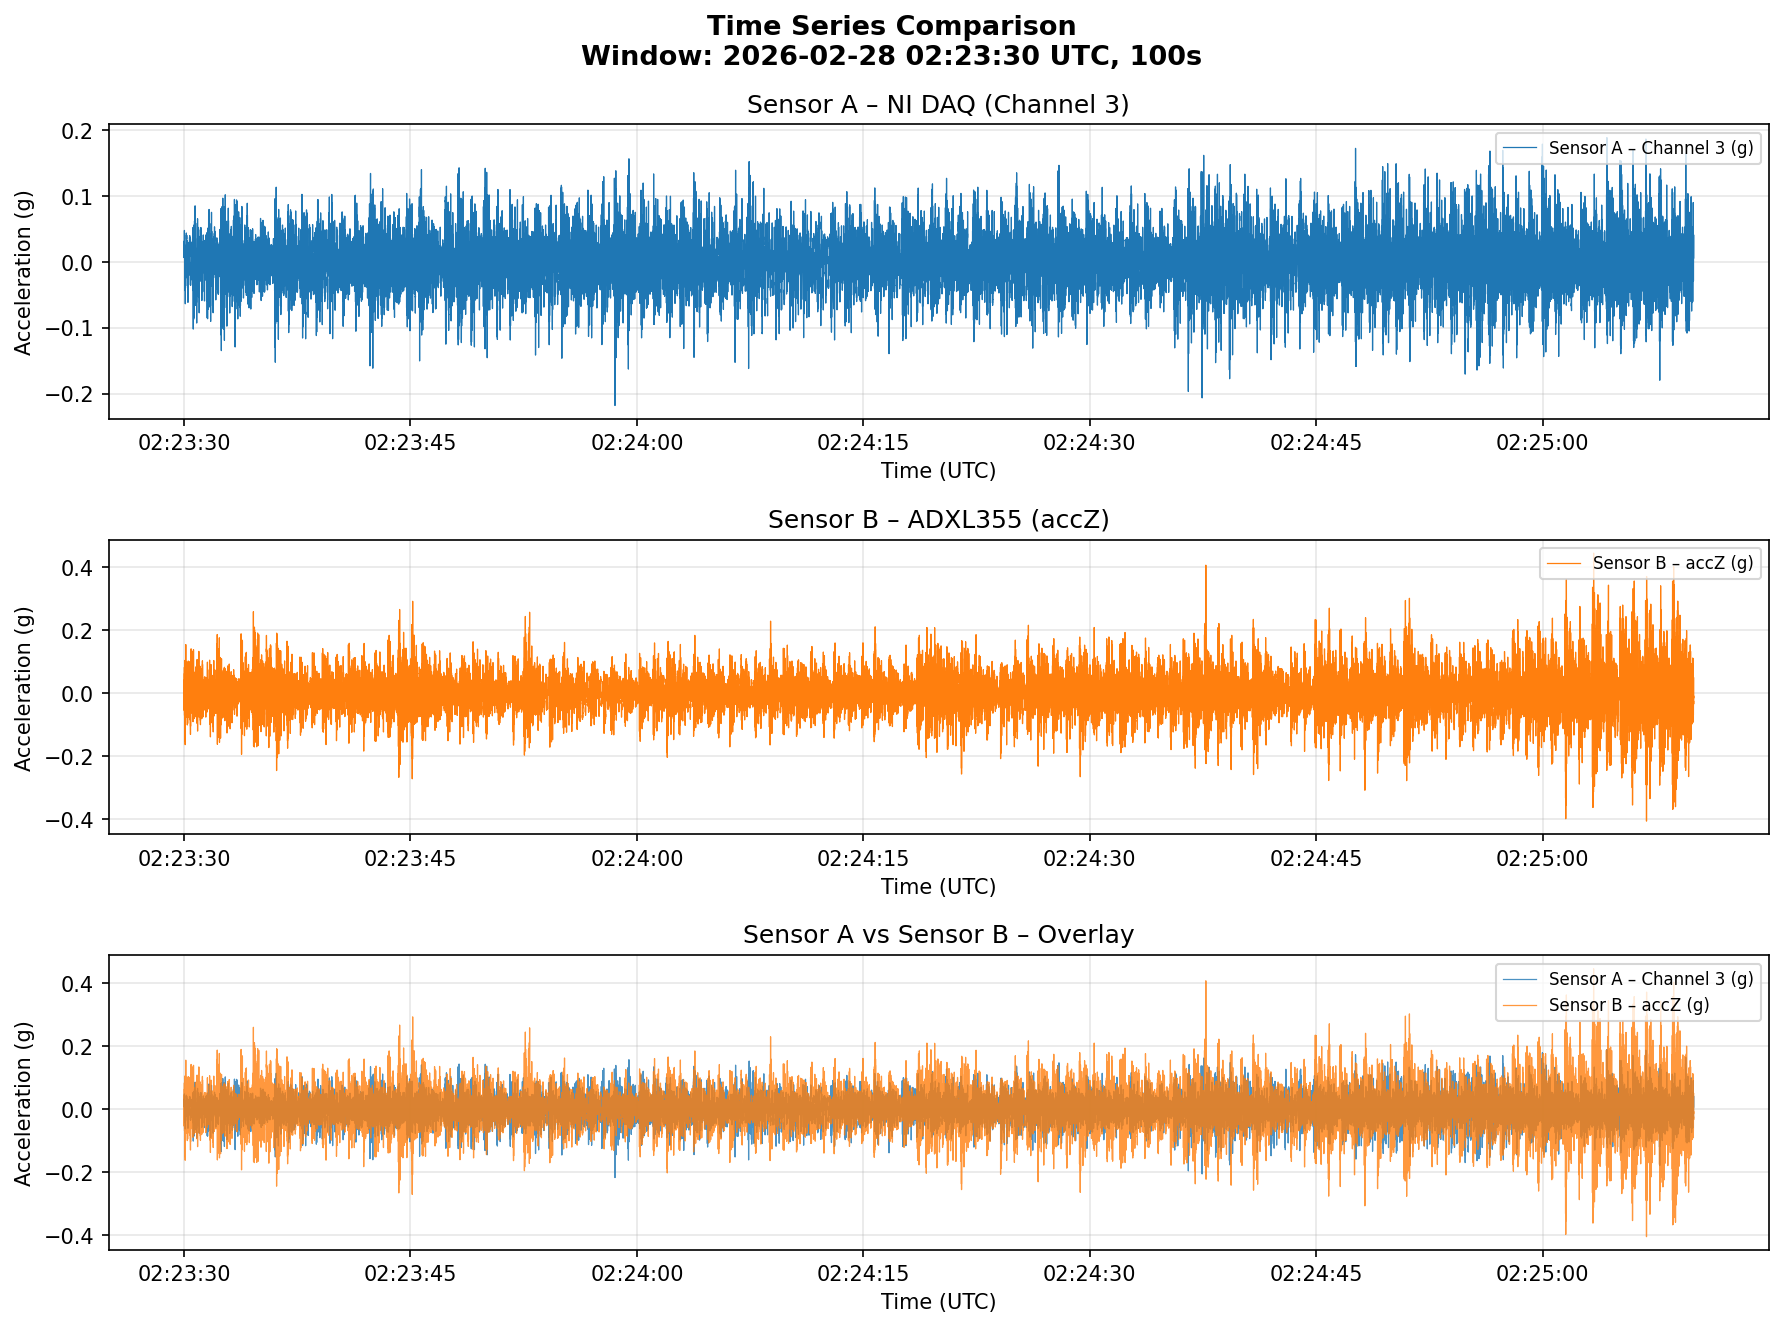
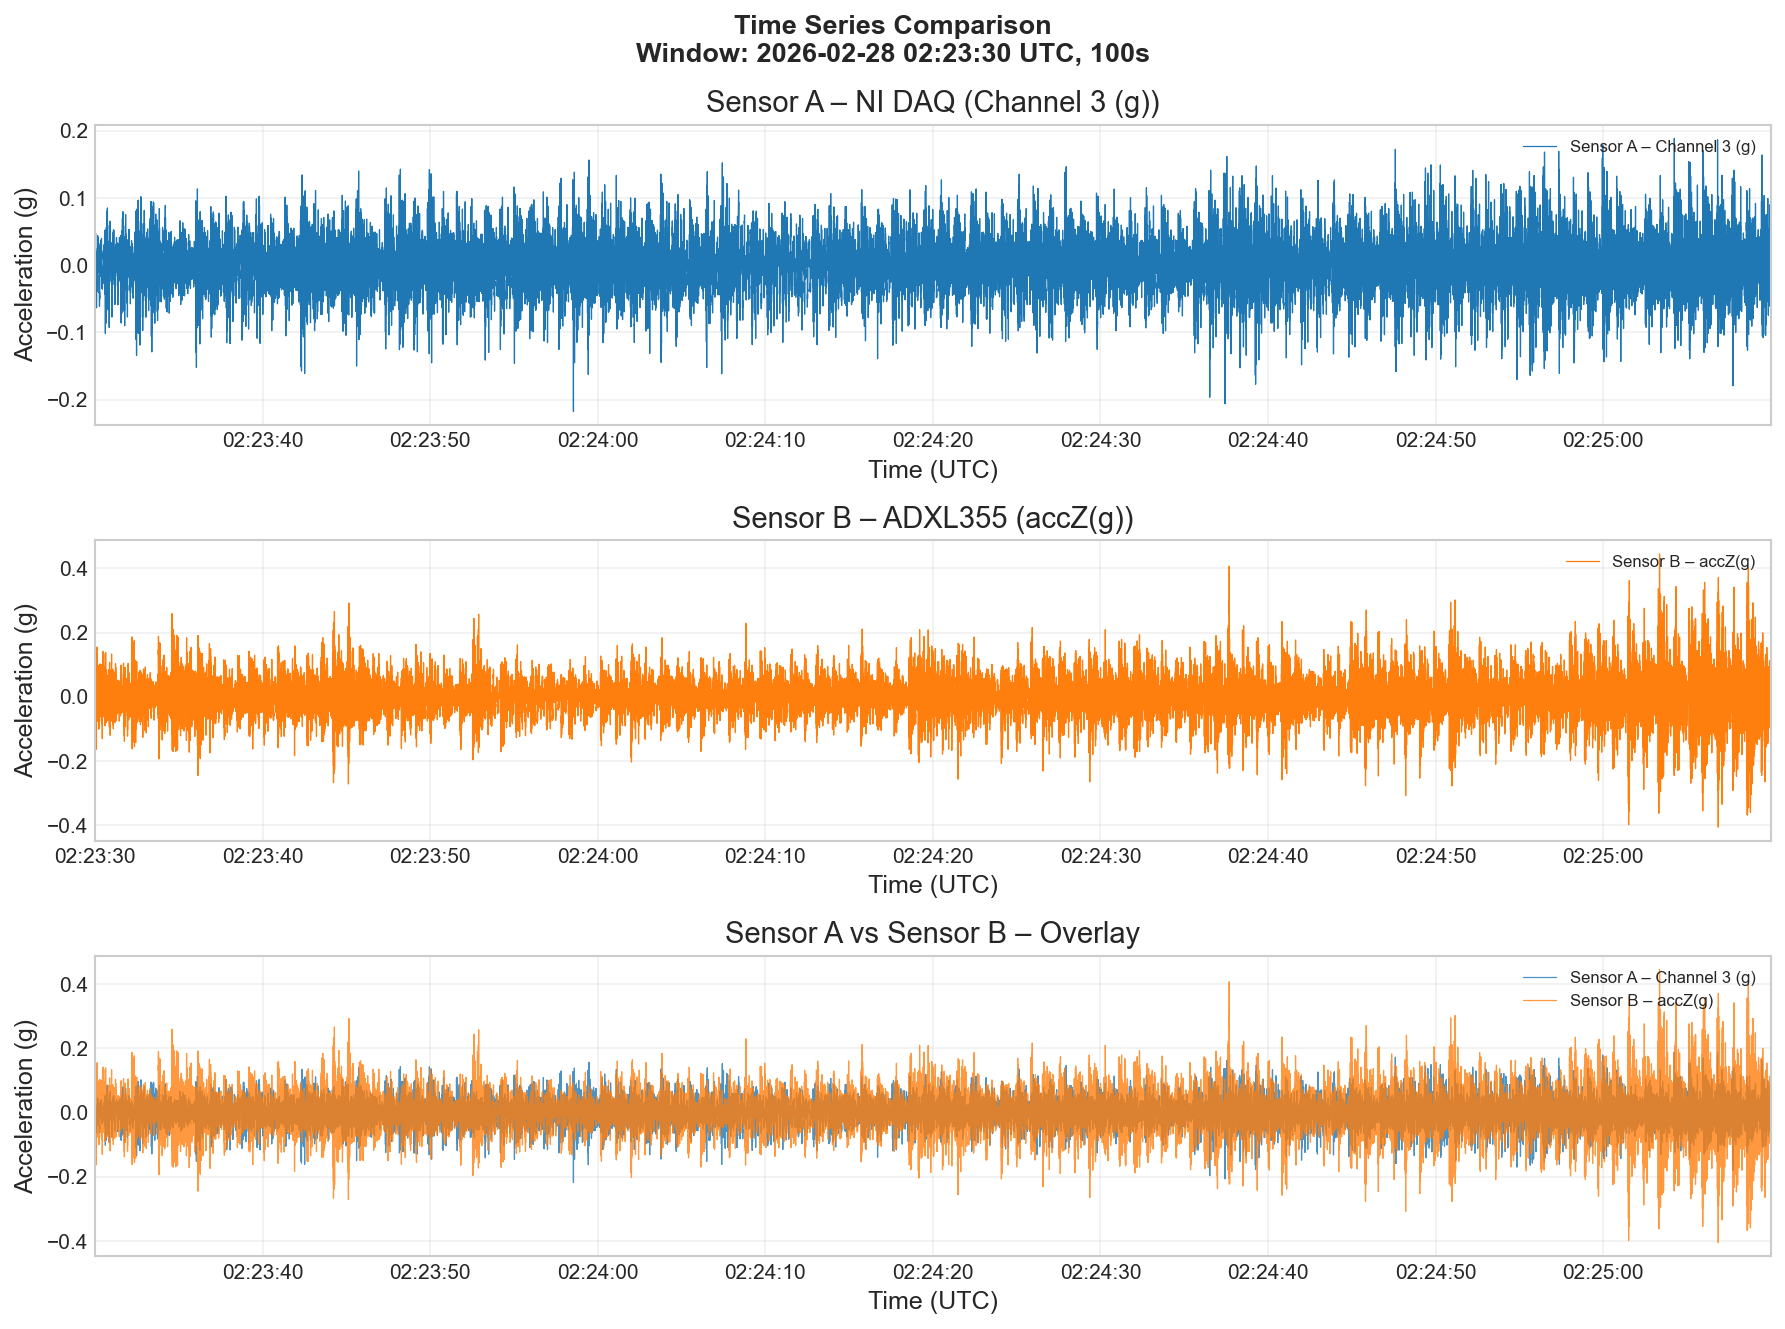
feat: integrate 3-panel time series figure into report
- full_plan_compare.py: add _plot_3panel_utc(), generate time_series_3panel.png per run
- reports.py: add Figures section with relative image links for all figures
- report now embeds: 3-panel UTC, time_series, fft, psd, scatter, bland-altman

diff --git a/src/analysis/full_plan_compare.py b/src/analysis/full_plan_compare.py
@@ -26,6 +26,70 @@ from src.visualization.plots import (
 from src.visualization.reports import export_metrics_to_csv, generate_report
 
 
+def _plot_3panel_utc(
+    raw_a: "pd.DataFrame",
+    raw_b: "pd.DataFrame",
+    time_col_a: str,
+    time_col_b: str,
+    val_col_a: str,
+    val_col_b: str,
+    start_utc: datetime,
+    duration_s: int,
+    save_path: str,
+) -> None:
+    import matplotlib
+    matplotlib.use("Agg")
+    import matplotlib.pyplot as plt
+    import matplotlib.dates as mdates
+
+    t_a = raw_a[time_col_a].values
+    t_b = raw_b[time_col_b].values
+    sig_a = raw_a[val_col_a].to_numpy(dtype=float)
+    sig_b = raw_b[val_col_b].to_numpy(dtype=float)
+
+    fmt = mdates.DateFormatter("%H:%M:%S")
+    end_utc = start_utc + timedelta(seconds=duration_s)
+    title = (
+        f"Time Series Comparison\n"
+        f"Window: {start_utc.strftime('%Y-%m-%d %H:%M:%S')} UTC, {duration_s}s"
+    )
+
+    fig, axes = plt.subplots(3, 1, figsize=(12, 9))
+    fig.suptitle(title, fontsize=13, fontweight="bold")
+
+    axes[0].plot(t_a, sig_a, color="#1f77b4", linewidth=0.6, label=f"Sensor A – {val_col_a}")
+    axes[0].set_ylabel("Acceleration (g)")
+    axes[0].set_title(f"Sensor A – NI DAQ ({val_col_a})")
+    axes[0].legend(loc="upper right", fontsize=8)
+    axes[0].grid(True, alpha=0.3)
+    axes[0].xaxis.set_major_formatter(fmt)
+    axes[0].set_xlabel("Time (UTC)")
+    axes[0].set_xlim(t_a[0], t_a[-1])
+
+    axes[1].plot(t_b, sig_b, color="#ff7f0e", linewidth=0.6, label=f"Sensor B – {val_col_b}")
+    axes[1].set_ylabel("Acceleration (g)")
+    axes[1].set_title(f"Sensor B – ADXL355 ({val_col_b})")
+    axes[1].legend(loc="upper right", fontsize=8)
+    axes[1].grid(True, alpha=0.3)
+    axes[1].xaxis.set_major_formatter(fmt)
+    axes[1].set_xlabel("Time (UTC)")
+    axes[1].set_xlim(t_b[0], t_b[-1])
+
+    axes[2].plot(t_a, sig_a, color="#1f77b4", linewidth=0.6, alpha=0.8, label=f"Sensor A – {val_col_a}")
+    axes[2].plot(t_b, sig_b, color="#ff7f0e", linewidth=0.6, alpha=0.8, label=f"Sensor B – {val_col_b}")
+    axes[2].set_ylabel("Acceleration (g)")
+    axes[2].set_xlabel("Time (UTC)")
+    axes[2].set_title("Sensor A vs Sensor B – Overlay")
+    axes[2].legend(loc="upper right", fontsize=8)
+    axes[2].grid(True, alpha=0.3)
+    axes[2].xaxis.set_major_formatter(fmt)
+    axes[2].set_xlim(max(t_a[0], t_b[0]), min(t_a[-1], t_b[-1]))
+
+    plt.tight_layout()
+    plt.savefig(save_path, dpi=150, bbox_inches="tight")
+    plt.close(fig)
+
+
 def _to_utc(value: str) -> datetime:
     dt = datetime.fromisoformat(value.replace("Z", "+00:00"))
     if dt.tzinfo is None:
@@ -284,11 +348,27 @@ def run_full_report_from_config(config_path: str = "configs/project.yaml") -> Di
     # Save tabular metrics
     export_metrics_to_csv(results, str(metrics_csv))
 
+    # Save 3-panel time series figure with UTC axis
+    fig_3panel = figures_dir / "time_series_3panel.png"
+    _plot_3panel_utc(
+        raw_a=raw_a,
+        raw_b=raw_b,
+        time_col_a=sa_cfg["time_column"],
+        time_col_b=sb_cfg["time_column"],
+        val_col_a=sa_cfg["value_column"],
+        val_col_b=sb_cfg["value_column"],
+        start_utc=start_utc,
+        duration_s=int(cfg["window"]["duration_seconds"]),
+        save_path=str(fig_3panel),
+    )
+
     # Save markdown report
     report_path = generate_report(
         comparison_results=results,
         output_path=str(report_md),
         title=f"Full Comparison Report: Sensor A {sa_cfg['value_column']} vs Sensor B {sb_cfg['value_column']}",
+        figures_dir=figures_dir,
+        report_md=report_md,
     )
 
     # Save compact summary CSV

diff --git a/src/visualization/reports.py b/src/visualization/reports.py
@@ -11,7 +11,9 @@ from datetime import datetime
 def generate_report(
     comparison_results: Dict[str, Any],
     output_path: str,
-    title: str = "Sensor Comparison Report"
+    title: str = "Sensor Comparison Report",
+    figures_dir: Any = None,
+    report_md: Any = None,
 ) -> str:
     """
     Generate a comprehensive comparison report.
@@ -64,13 +66,35 @@ def generate_report(
     report_lines.append("\n## Frequency Domain Analysis\n")
     freq_a = comparison_results.get('sensor_a_freq', {})
     freq_b = comparison_results.get('sensor_b_freq', {})
-    
+
     report_lines.append("| Metric | Sensor A | Sensor B |")
     report_lines.append("|--------|----------|----------|")
     for metric in ['dominant_frequency', 'spectral_centroid', 'median_frequency']:
         val_a = freq_a.get(metric, 0)
         val_b = freq_b.get(metric, 0)
         report_lines.append(f"| {metric} | {val_a:.2f} Hz | {val_b:.2f} Hz |")
+
+    # Figures section — paths relative to report location
+    if figures_dir is not None and report_md is not None:
+        figures_dir = Path(figures_dir)
+        report_dir = Path(report_md).parent
+        report_lines.append("\n## Figures\n")
+        figure_defs = [
+            ("time_series_3panel.png", "Time Series — Sensor A, Sensor B, Overlay (UTC axis)"),
+            ("time_series.png",        "Time Series — Overlay (resampled)"),
+            ("fft.png",                "FFT Comparison"),
+            ("psd.png",                "PSD Comparison"),
+            ("scatter.png",            "Scatter Plot"),
+            ("bland_altman.png",       "Bland-Altman Plot"),
+        ]
+        for fname, caption in figure_defs:
+            fig_path = figures_dir / fname
+            if fig_path.exists():
+                # compute relative path from report dir using os.path
+                import os
+                rel = os.path.relpath(str(fig_path), str(report_dir)).replace("\\", "/")
+                report_lines.append(f"### {caption}\n")
+                report_lines.append(f"![]({rel})\n")
     
     # Interpretation
     report_lines.append("\n## Interpretation\n")

diff --git a/results/reports/comparison_pair_report.md b/results/reports/comparison_pair_report.md
@@ -1,6 +1,6 @@
 # Full Comparison Report: Sensor A Channel 3 (g) vs Sensor B accZ(g)
 
-Generated: 2026-03-01 22:54:15
+Generated: 2026-03-01 23:14:19
 
 ---
 
@@ -35,6 +35,33 @@ Generated: 2026-03-01 22:54:15
 | dominant_frequency | 11.64 Hz | 11.72 Hz |
 | spectral_centroid | 39.89 Hz | 65.37 Hz |
 | median_frequency | 17.77 Hz | 42.93 Hz |
+
+## Figures
+
+### Time Series — Sensor A, Sensor B, Overlay (UTC axis)
+
+![](../figures/comparison_pair/time_series_3panel.png)
+
+### Time Series — Overlay (resampled)
+
+![](../figures/comparison_pair/time_series.png)
+
+### FFT Comparison
+
+![](../figures/comparison_pair/fft.png)
+
+### PSD Comparison
+
+![](../figures/comparison_pair/psd.png)
+
+### Scatter Plot
+
+![](../figures/comparison_pair/scatter.png)
+
+### Bland-Altman Plot
+
+![](../figures/comparison_pair/bland_altman.png)
+
 
 ## Interpretation
 
